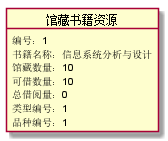
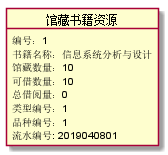
实验三第三次提交

diff --git a/test3/README.md b/test3/README.md
@@ -8,19 +8,19 @@
 管理员  --  系统配置:配置
 管理员  --  管理员权限:分配
 资源记录 <|--  资源类型
-馆藏目录 "1"  -- "n" 馆藏书籍资源
-馆藏书籍资源 "n" *-- "1" 资源记录:拥有
-馆藏书籍资源  "1" <|-- "1.. n" 图书品种
-馆藏书籍资源  "1" <|-- "1.. n" 图书类型
-预定信息 "n" *-- "1" 读者信息:拥有
+馆藏目录 "1"  -- "1.. n" 馆藏书籍资源
+馆藏书籍资源 "1" *-- "n" 资源记录:拥有
+馆藏书籍资源  "1" *-- "1.. n" 图书品种
+馆藏书籍资源  "1" *-- "1.. n" 图书类型
+预定信息 "n" -- "1" 读者信息:拥有
 资源记录 "1" -- "0.. 1" 预定信息:属于
-预定信息 "n" *-- "1" 馆藏书籍资源:被预定
+预定信息 "n" -- "1" 馆藏书籍资源:被预定
 资源记录 "1" -- "0.. 1" 借阅记录:属于
 资源记录 "1" -- "0.. 1" 逾期记录:属于
-借阅记录 "n" *-- "1" 读者信息:借阅
-管理员 "1" *-- "n" 借阅记录:登记
-逾期记录 "0.. 1" *-- "1" 借阅记录
-逾期记录 "n" *-- "0.. 1" 罚款细则:使用
+借阅记录 "n" -- "1" 读者信息:填写
+管理员 "1" -- "n" 借阅记录:登记
+逾期记录 "0.. 1" -- "1" 借阅记录
+逾期记录 "n" -- "1.. n" 罚款细则:使用
 class 管理员{
 职工号
 姓名
@@ -92,8 +92,24 @@ class 罚款细则{
 ![图书管理系统类图](图书管理系统类图.png)
 
 ### 1.3. 类型说明
->1
 
+1.管理员可以有多个多个权限，由系统管理员进行分配，系统管理员预置
+
+2.系统管理员可配置图书管理系统的系统预置信息，无权限的管理员无法进行配置
+
+3.一个图书管理员可以登记多个借书记录，每个借书记录只能属于一个读者的借阅信息
+
+4.一个读者可以预定多本图书资源，可有多个预定记录，但一个预定记录只能预定一本图书资源
+
+5.一个馆藏目录可以含有多个图书资源，一个图书资源只能属于一个资源记录
+
+6.一个图书资源可以包含多种图书品种，一个图书资源可以包含多个图书类型
+
+7.一个资源记录只能属于一种资源类型，一个资源记录只能属于一种详细记录
+
+8.一个读者可以填写多个借阅记录，一个借阅记录只能含有0~1个逾期记录
+
+9.一个逾期记录只能使用1~n种罚款细则
 ## 2. 图书管理系统的对象图
 ### 2.1 类"管理员"的对象图
 #### 对象图源码
@@ -155,6 +171,7 @@ object 馆藏书籍资源{
 总借阅量：0
 类型编号：1
 品种编号：1
+流水编号: 2019040801
 }
 
 @enduml
